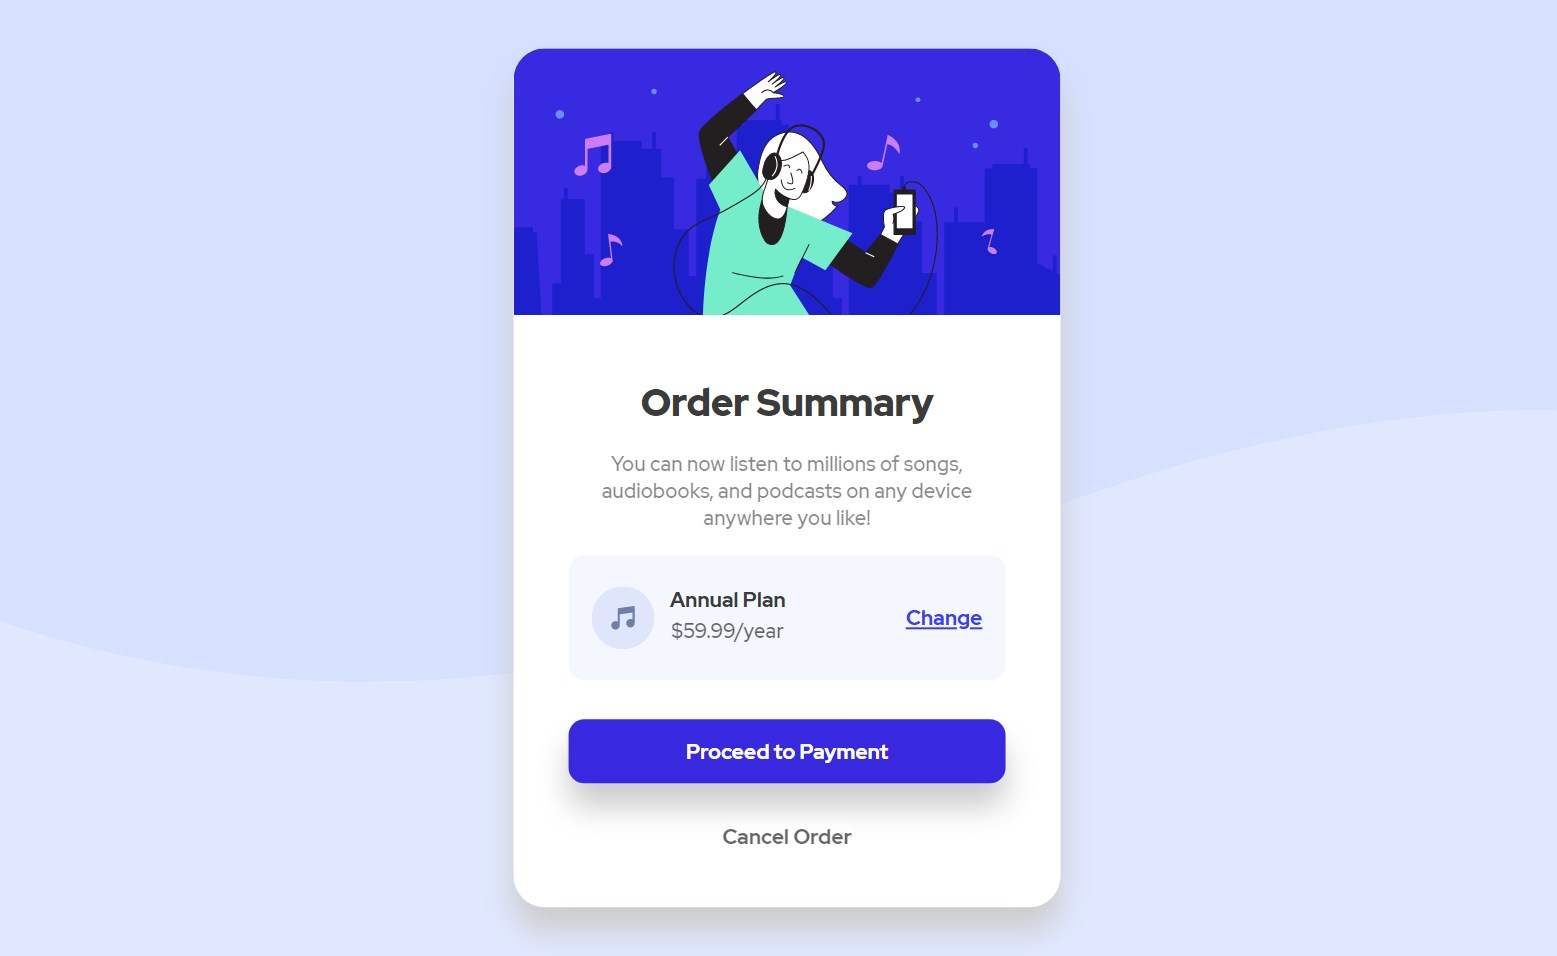
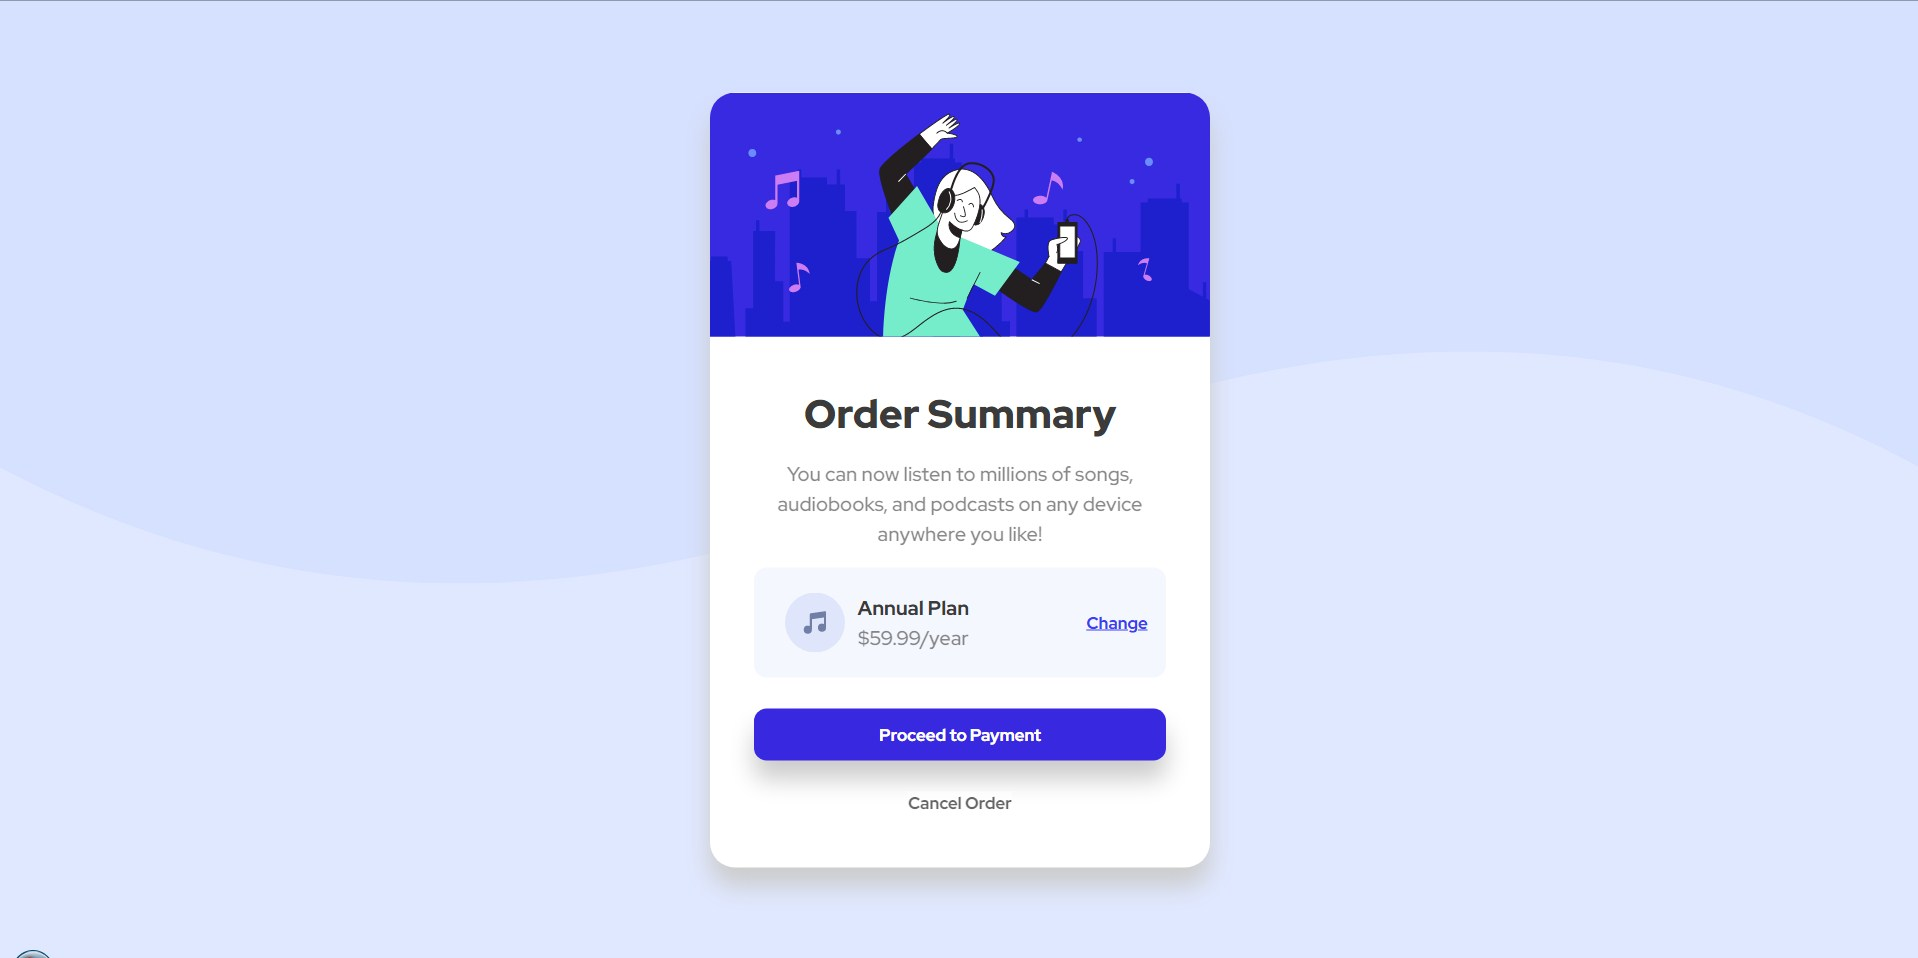
fixed some card and background styles

Changed region(s): [[0.3083, 0.0303, 0.7091, 1.0], [0.0, 0.9707, 0.0308, 1.0]]

diff --git a/css/style.css b/css/style.css
@@ -4,14 +4,14 @@
   box-sizing: border-box;
 }
 
-h2, h5, p {
-  color: rgb(59, 59, 59)
-}
-
 body {
   font-family: 'Red Hat Display', sans-serif;
   background-image: url(../images/pattern-background-desktop.svg);
   background-repeat: no-repeat;
+  -webkit-background-size: cover;
+  -moz-background-size: cover;
+  -o-background-size: cover;
+  background-size: cover;
   background-color: hsl(225, 100%, 94%);
 }
 
@@ -25,8 +25,8 @@ button:hover {
 }
 
 .card {
-  width: 350px;
-  height: 550px;
+  width: 400px;
+  height: 620px;
   position: fixed;
   top: 50%;
   left: 50%;
@@ -52,15 +52,18 @@ button:hover {
   padding: 20px 35px;
 }
 
-.content h2 {
+.content h1 {
   font-weight: 900;
   padding-top: 15px;
+  color: rgb(59, 59, 59)
 }
 
 .content p {
-  font-size: 13px;
+  font-size: 16px;
   padding: 15px;
   opacity: .6;
+  color: rgb(59, 59, 59);
+  line-height: 1.5rem;
 }
 
 .content .plan {
@@ -75,15 +78,17 @@ button:hover {
 
 .plan .plan-description {
   display: flex;
+  line-height: 1.5rem;
+  color: rgb(59, 59, 59);
+  margin-left: 10px;
 }
 
 .plan-description .plan-price {
-  font-size: 13px;
+  font-size: 16px;
   opacity: .6;
 }
 
 .plan img {
-  width: 40px;
   margin-right: 10px;
 }
 

diff --git a/index.html b/index.html
@@ -18,13 +18,13 @@
       <img src="./images/illustration-hero.svg" alt="hero">
     </div>
     <div class="content">
-      <h2>Order Summary</h2>
+      <h1>Order Summary</h1>
       <p>You can now listen to millions of songs, audiobooks, and podcasts on any device anywhere you like!</p>
       <div class="plan">
         <div class="plan-description">
           <img src="./images/icon-music.svg" alt="icon-music">
           <div>
-            <h5 class="plan-title">Annual Plan</h5>
+            <h4 class="plan-title">Annual Plan</h4>
             <span class="plan-price">$59.99/year</span>
           </div>
         </div>
